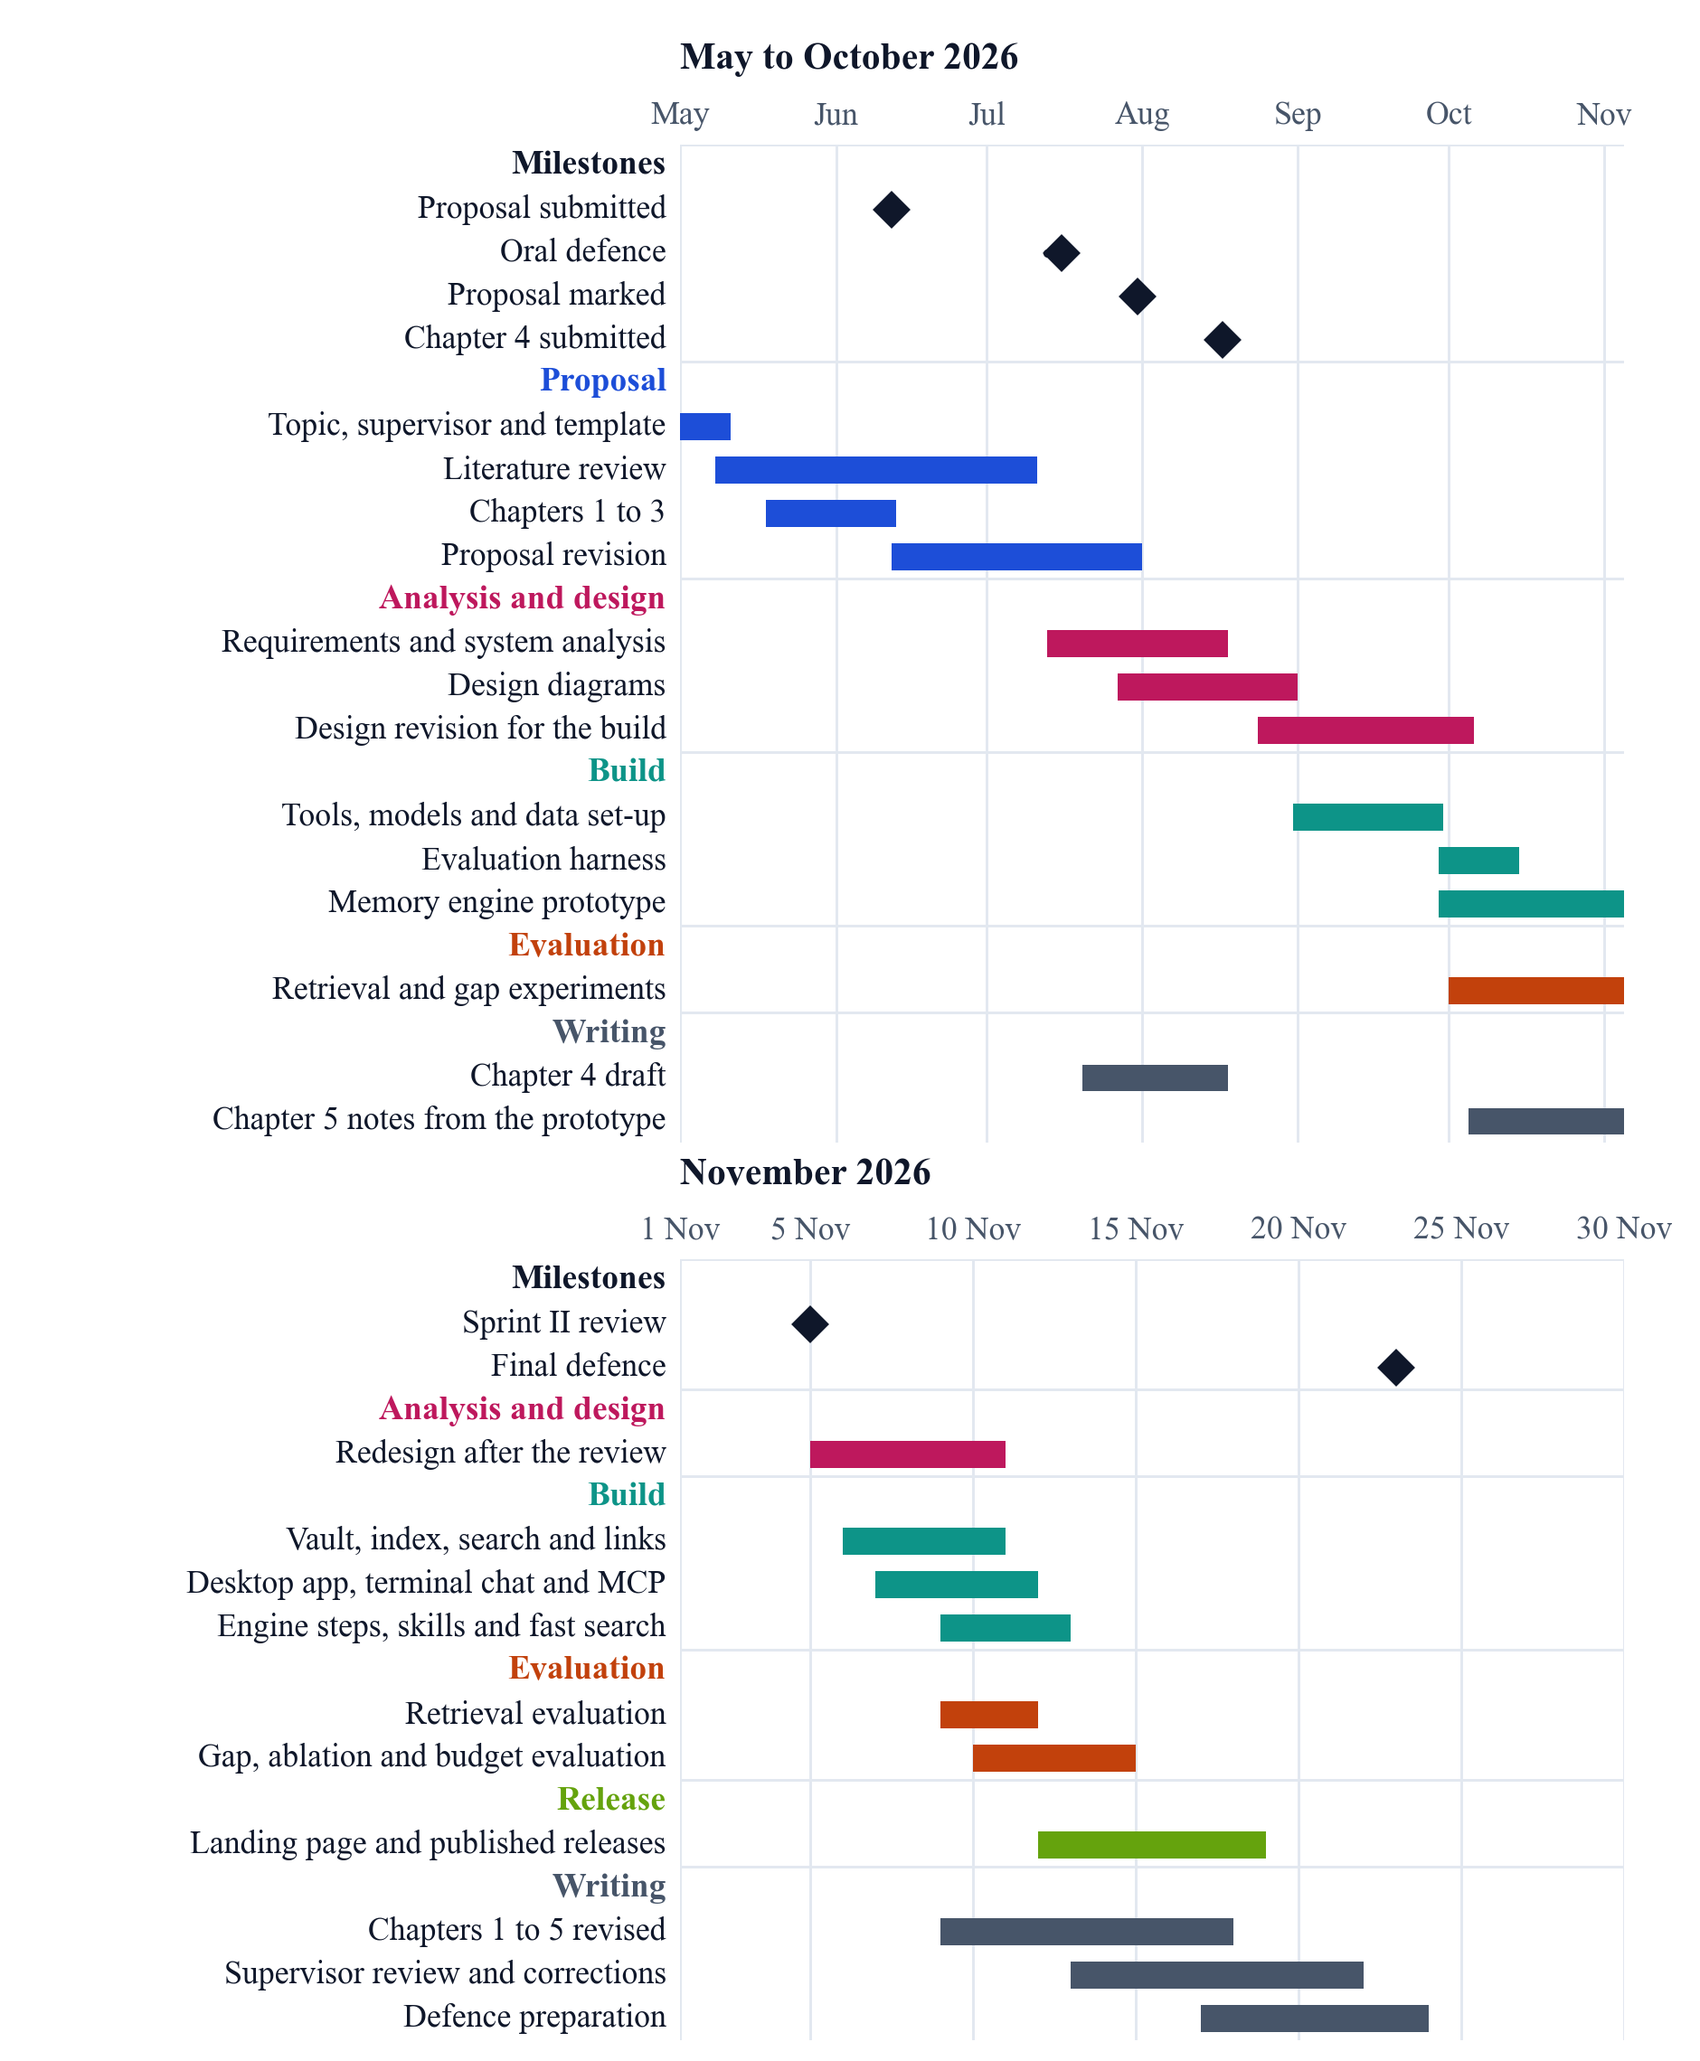
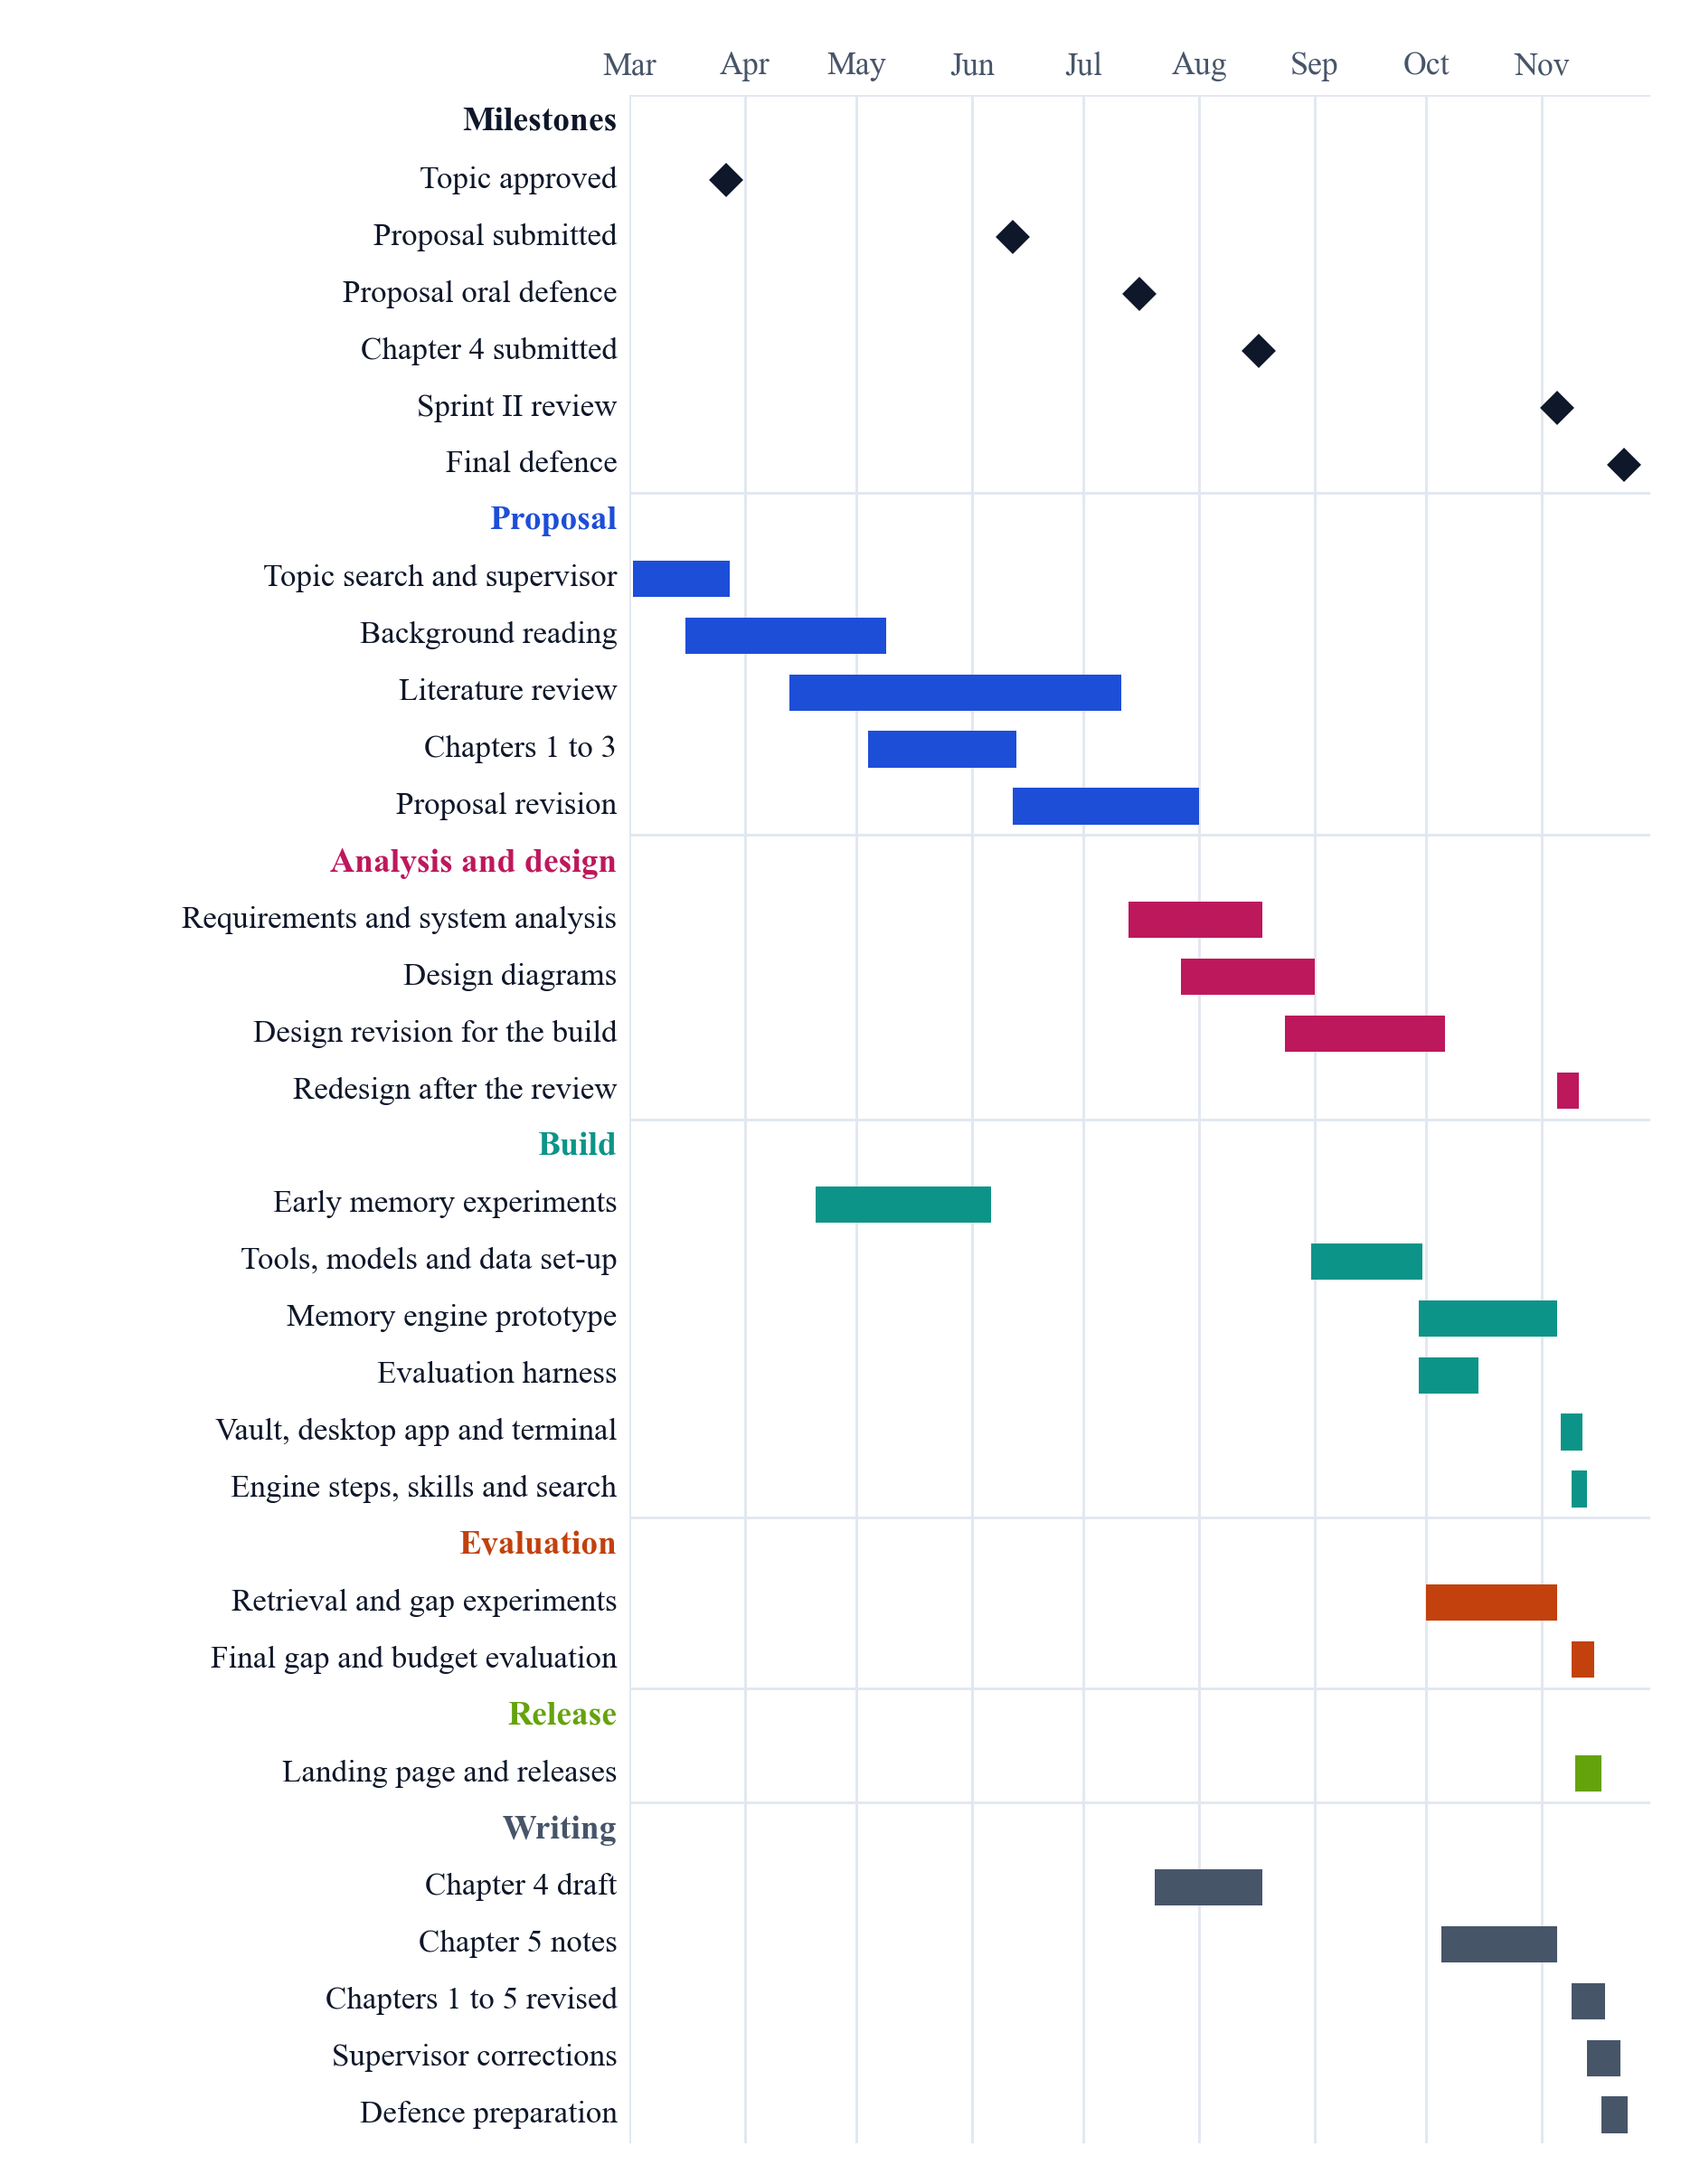
Report: reference list written out in full; Gantt runs March to November on one timeline

diff --git a/docs/report/figures/gantt.py b/docs/report/figures/gantt.py
@@ -1,8 +1,7 @@
 #!/usr/bin/env python3
-"""The project's work, May to November 2026: overlapping tasks by workstream, with the course milestones.
-Dates follow the course milestones and the repositories' commit history. November is drawn at its own scale,
-because several pieces of work ran at once after the Sprint II review."""
-from datetime import date as D, timedelta
+"""The project's work, March to November 2026, on one continuous timeline: overlapping tasks by workstream,
+with the course milestones. Dates follow the course milestones and the repositories' commit history."""
+from datetime import date as D
 from pathlib import Path
 import matplotlib
 matplotlib.use("Agg")
@@ -12,82 +11,68 @@ plt.rcParams.update({"font.family": ["Times New Roman", "Times"], "font.size": 9
 INK, SOFT, GRID = "#0F172A", "#475569", "#E2E8F0"
 WORK = {"Proposal": "#1D4ED8", "Analysis and design": "#BE185D", "Build": "#0D9488", "Evaluation": "#C2410C", "Writing": "#475569", "Release": "#65A30D"}
 
-BEFORE = [
+GROUPS = [
     ("Milestones", None, [
-        ("Proposal submitted", D(2026,6,12)), ("Oral defence", D(2026,7,13), D(2026,7,16)),
-        ("Proposal marked", D(2026,7,31)), ("Chapter 4 submitted", D(2026,8,17))]),
+        ("Topic approved", D(2026,3,27)),
+        ("Proposal submitted", D(2026,6,12)),
+        ("Proposal oral defence", D(2026,7,13), D(2026,7,16)),
+        ("Chapter 4 submitted", D(2026,8,17)),
+        ("Sprint II review", D(2026,11,5)),
+        ("Final defence", D(2026,11,23))]),
     ("Proposal", "Proposal", [
-        ("Topic, supervisor and template", D(2026,5,1), D(2026,5,10)),
-        ("Literature review", D(2026,5,8), D(2026,7,10)),
-        ("Chapters 1 to 3", D(2026,5,18), D(2026,6,12)),
+        ("Topic search and supervisor", D(2026,3,2), D(2026,3,27)),
+        ("Background reading", D(2026,3,16), D(2026,5,8)),
+        ("Literature review", D(2026,4,13), D(2026,7,10)),
+        ("Chapters 1 to 3", D(2026,5,4), D(2026,6,12)),
         ("Proposal revision", D(2026,6,12), D(2026,7,31))]),
     ("Analysis and design", "Analysis and design", [
         ("Requirements and system analysis", D(2026,7,13), D(2026,8,17)),
         ("Design diagrams", D(2026,7,27), D(2026,8,31)),
-        ("Design revision for the build", D(2026,8,24), D(2026,10,5))]),
-    ("Build", "Build", [
-        ("Tools, models and data set-up", D(2026,8,31), D(2026,9,29)),
-        ("Evaluation harness", D(2026,9,29), D(2026,10,14)),
-        ("Memory engine prototype", D(2026,9,29), D(2026,11,4))]),
-    ("Evaluation", "Evaluation", [
-        ("Retrieval and gap experiments", D(2026,10,1), D(2026,11,4))]),
-    ("Writing", "Writing", [
-        ("Chapter 4 draft", D(2026,7,20), D(2026,8,17)),
-        ("Chapter 5 notes from the prototype", D(2026,10,5), D(2026,11,4))]),
-]
-AFTER = [
-    ("Milestones", None, [("Sprint II review", D(2026,11,5)), ("Final defence", D(2026,11,23))]),
-    ("Analysis and design", "Analysis and design", [
+        ("Design revision for the build", D(2026,8,24), D(2026,10,5)),
         ("Redesign after the review", D(2026,11,5), D(2026,11,10))]),
     ("Build", "Build", [
-        ("Vault, index, search and links", D(2026,11,6), D(2026,11,10)),
-        ("Desktop app, terminal chat and MCP", D(2026,11,7), D(2026,11,11)),
-        ("Engine steps, skills and fast search", D(2026,11,9), D(2026,11,12))]),
+        ("Early memory experiments", D(2026,4,20), D(2026,6,5)),
+        ("Tools, models and data set-up", D(2026,8,31), D(2026,9,29)),
+        ("Memory engine prototype", D(2026,9,29), D(2026,11,4)),
+        ("Evaluation harness", D(2026,9,29), D(2026,10,14)),
+        ("Vault, desktop app and terminal", D(2026,11,6), D(2026,11,11)),
+        ("Engine steps, skills and search", D(2026,11,9), D(2026,11,12))]),
     ("Evaluation", "Evaluation", [
-        ("Retrieval evaluation", D(2026,11,9), D(2026,11,11)),
-        ("Gap, ablation and budget evaluation", D(2026,11,10), D(2026,11,14))]),
+        ("Retrieval and gap experiments", D(2026,10,1), D(2026,11,4)),
+        ("Final gap and budget evaluation", D(2026,11,9), D(2026,11,14))]),
     ("Release", "Release", [
-        ("Landing page and published releases", D(2026,11,12), D(2026,11,18))]),
+        ("Landing page and releases", D(2026,11,10), D(2026,11,16))]),
     ("Writing", "Writing", [
+        ("Chapter 4 draft", D(2026,7,20), D(2026,8,17)),
+        ("Chapter 5 notes", D(2026,10,5), D(2026,11,4)),
         ("Chapters 1 to 5 revised", D(2026,11,9), D(2026,11,17)),
-        ("Supervisor review and corrections", D(2026,11,13), D(2026,11,21)),
+        ("Supervisor corrections", D(2026,11,13), D(2026,11,21)),
         ("Defence preparation", D(2026,11,17), D(2026,11,23))]),
 ]
 
-def panel(ax, groups, left, right, months):
-    row, ticks, names = 0, [], []
-    for title, key, tasks in groups:
-        colour = WORK[key] if key else INK
-        ax.text(-0.015, row, title, transform=ax.get_yaxis_transform(), ha="right", va="center", fontsize=9, fontweight="bold", color=colour)
-        ax.axhline(row - 0.5, color=GRID, lw=0.7, zorder=0)
+rows = sum(len(g[2]) + 1 for g in GROUPS)
+fig, ax = plt.subplots(figsize=(6.27, 0.205 * rows + 0.6))
+row = 0
+for title, key, tasks in GROUPS:
+    colour = WORK[key] if key else INK
+    ax.text(-0.012, row, title, transform=ax.get_yaxis_transform(), ha="right", va="center", fontsize=9, fontweight="bold", color=colour)
+    ax.axhline(row - 0.5, color=GRID, lw=0.7, zorder=0)
+    row += 1
+    for task in tasks:
+        name, start = task[0], task[1]
+        ax.text(-0.012, row, name, transform=ax.get_yaxis_transform(), ha="right", va="center", fontsize=8.4, color=INK)
+        if key is None:
+            end = task[2] if len(task) > 2 else None
+            if end: ax.plot([md.date2num(start), md.date2num(end)], [row, row], color=INK, lw=2.2, solid_capstyle="round", zorder=3)
+            ax.plot(md.date2num(end or start), row, marker="D", ms=5.5, color=INK, zorder=4)
+        else:
+            ax.barh(row, md.date2num(task[2]) - md.date2num(start) + 1, left=md.date2num(start), height=0.64, color=colour, zorder=3)
         row += 1
-        for task in tasks:
-            name, start = task[0], task[1]
-            ax.text(-0.015, row, name, transform=ax.get_yaxis_transform(), ha="right", va="center", fontsize=8.6, color=INK)
-            if key is None:
-                end = task[2] if len(task) > 2 else None
-                if end: ax.plot([md.date2num(start), md.date2num(end)], [row, row], color=INK, lw=2.2, solid_capstyle="round", zorder=3)
-                ax.plot(md.date2num(end or start), row, marker="D", ms=6, color=INK, zorder=4)
-            else:
-                end = task[2]
-                ax.barh(row, md.date2num(end) - md.date2num(start) + 1, left=md.date2num(start), height=0.62, color=colour, zorder=3)
-            row += 1
-    ax.set_ylim(row - 0.5, -0.5); ax.set_yticks([]); ax.xaxis_date()
-    ax.set_xlim(md.date2num(left), md.date2num(right))
-    if months:
-        ax.xaxis.set_major_locator(md.MonthLocator()); ax.xaxis.set_major_formatter(md.DateFormatter("%b"))
-    else:
-        ax.xaxis.set_major_locator(md.DayLocator(bymonthday=[1,5,10,15,20,25,30])); ax.xaxis.set_major_formatter(md.DateFormatter("%-d Nov"))
-    ax.xaxis.tick_top(); ax.tick_params(axis="x", length=0, labelsize=8.6, colors=SOFT)
-    ax.grid(axis="x", color=GRID, lw=0.7); ax.set_axisbelow(True)
-    for s in ax.spines.values(): s.set_visible(False)
-    return row
-
-rows_a = sum(len(g[2]) + 1 for g in BEFORE); rows_b = sum(len(g[2]) + 1 for g in AFTER)
-fig, (a, b) = plt.subplots(2, 1, figsize=(6.27, 7.6), gridspec_kw={"height_ratios": [rows_a, rows_b], "hspace": 0.13})
-panel(a, BEFORE, D(2026,5,1), D(2026,11,5), True)
-panel(b, AFTER, D(2026,11,1), D(2026,11,30), False)
-a.set_title("May to October 2026", loc="left", fontsize=10, fontweight="bold", color=INK, pad=20)
-b.set_title("November 2026", loc="left", fontsize=10, fontweight="bold", color=INK, pad=20)
-fig.subplots_adjust(left=0.40, right=0.955, top=0.93, bottom=0.01)
+ax.set_ylim(row - 0.5, -0.5); ax.set_yticks([]); ax.xaxis_date()
+ax.set_xlim(md.date2num(D(2026,3,1)), md.date2num(D(2026,11,30)))
+ax.xaxis.set_major_locator(md.MonthLocator()); ax.xaxis.set_major_formatter(md.DateFormatter("%b"))
+ax.xaxis.tick_top(); ax.tick_params(axis="x", length=0, labelsize=8.6, colors=SOFT)
+ax.grid(axis="x", color=GRID, lw=0.7); ax.set_axisbelow(True)
+for s in ax.spines.values(): s.set_visible(False)
+fig.subplots_adjust(left=0.37, right=0.97, top=1 - 0.35 / (0.205 * rows + 0.6), bottom=0.01)
 fig.savefig(Path(__file__).parent / "gantt.png", dpi=300, facecolor="white")

diff --git a/docs/report/build_word.py b/docs/report/build_word.py
@@ -432,10 +432,8 @@ class Writer:
         if name.startswith("7-"):
             self.heading(1, "References")
             wanted = set(self.library.cited)
-            # The reference list itself is inserted in Word by Mendeley Cite (Insert Bibliography) at this bookmark.
-            made = self.document.add_paragraph(style="Bibliography")
-            made.add_run(" ")
-            self.marks.wrap(made, "ReferenceListHere", 0)
+            # The full list is written out inside Mendeley's bibliography control, so a Mendeley Refresh updates it in place.
+            self.bibliography([l[2:].strip() for l in lines if l.startswith("@ ")])
             return
         i = 0
         while i < len(lines):

diff --git a/docs/report/chapters4/8-appendices.md b/docs/report/chapters4/8-appendices.md
@@ -2,6 +2,6 @@
 
 ## Appendix 1: Gantt Chart
 
-Figure A1.1 shows the work carried out from May to November 2026, by workstream, with the course milestones.
+Figure A1.1 shows the work carried out from March to November 2026, by workstream, with the course milestones.
 
-!fig figures/gantt.png | Figure A1.1: Project work plan, May to November 2026 | 6.27
+!fig figures/gantt.png | Figure A1.1: Project work plan, March to November 2026 | 6.27
